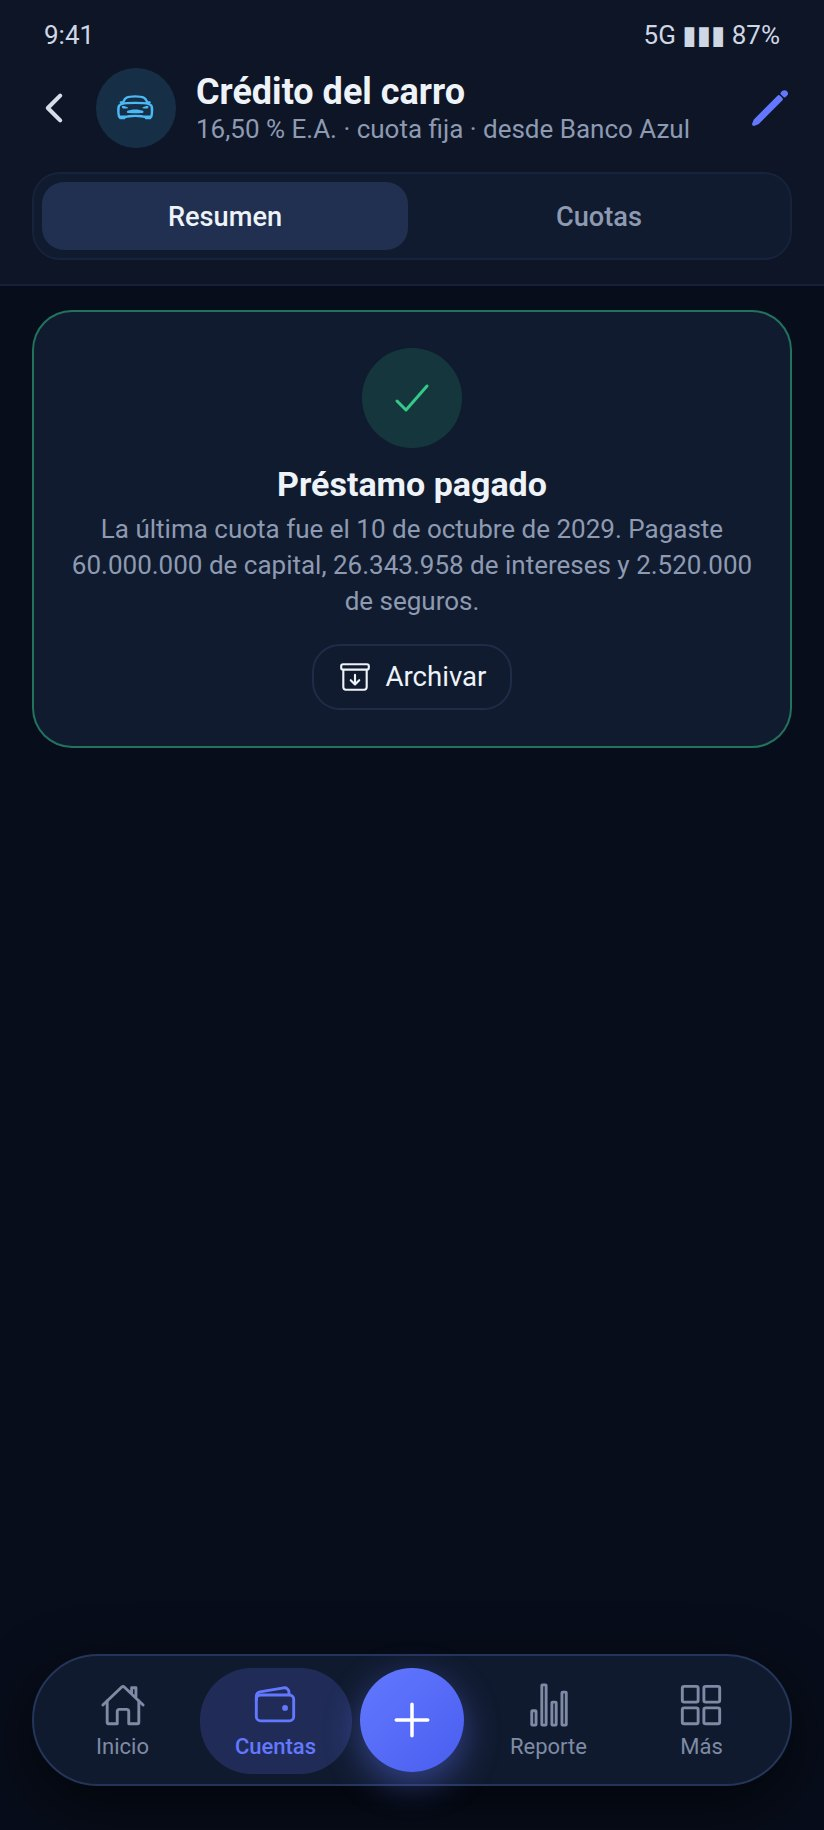
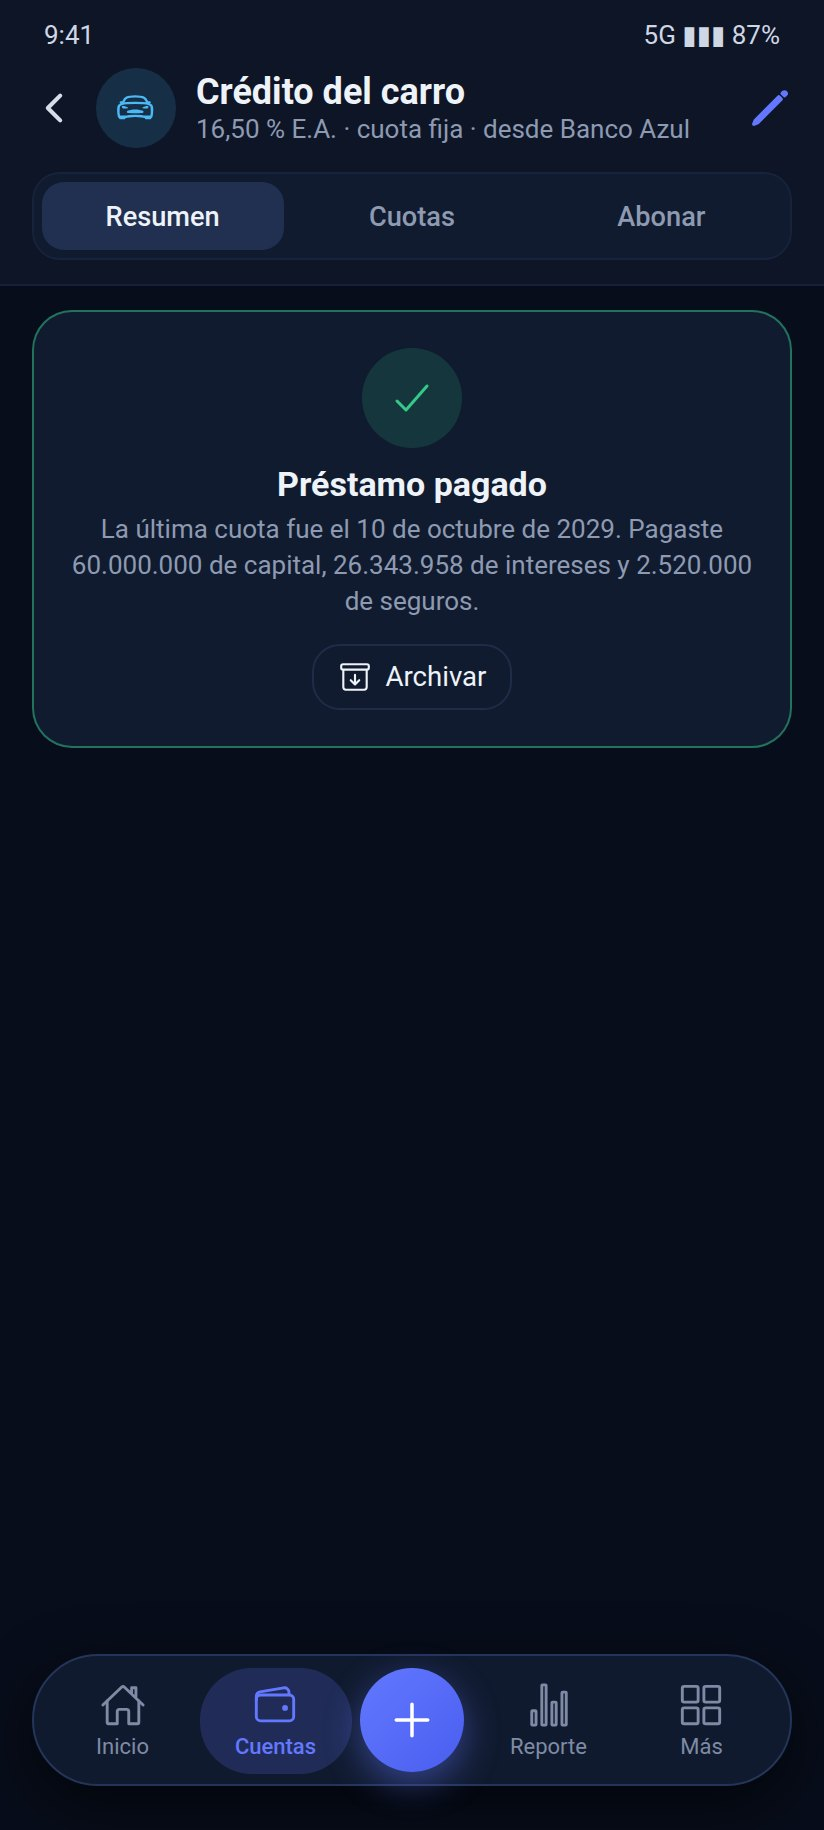
Debts part 2, v2: capital and interest apart, and paying a loan ahead
Each installment shows capital, interest, insurance and what is left on
lines of their own. Seven new screens draw paying ahead the way Colombian
law allows it (Ley 1555 de 2012, Ley 546 de 1999): once, every month or in
the primas, shorter term against lower installment with every figure
worked out, paying it all, and default interest when charged. The form
offers fixed or variable rate, the amortization system, and insurance as a
fixed figure or a share of the balance.

Claude-Session: https://claude.ai/code/session_01QyUqFix1SMdsKVBtd1Wz88

Changed region(s): [[0.1214, 0.0934, 0.5461, 0.1557], [0.6675, 0.0934, 0.8495, 0.1246]]

diff --git a/CLAUDE.md b/CLAUDE.md
@@ -3288,6 +3288,42 @@ insurance as expenses under Intereses and Seguros - each figure editable,
 the schedule worked out again from what was paid; overdue and paid-off
 states. Paying capital ahead is part 3.
 
+**v2, after Jose's review (2026-10-01)**: in Cuotas each installment shows
+capital, interest, insurance and what is left owed on lines of their own;
+and paying ahead is drawn now too (`13l`-`13r`), as he asked to research
+how loans work in Colombia and include it with exact figures. Looked up the
+same day (web; the norms to re-read before building):
+- **Ley 1555 de 2012**: any credit in pesos can be paid ahead, all or in
+  part, with no penalty; on a partial payment **the debtor chooses** a
+  shorter term or a lower installment. Not above 880 SMMLV of balance.
+  **Ley 546 de 1999** gives housing credits the same right.
+- **Superfinanciera**: the bank must apply an extra payment as the debtor
+  asks, even on another day than the installment's, and must not apply it
+  to future installments when the debtor says where it goes.
+- **Systems** approved for housing: fixed installment in pesos, constant
+  capital in pesos, and three in UVR (constant installment, constant
+  capital, cyclic decreasing). Consumer and vehicle loans are usually the
+  fixed installment. Proposed: fixed installment and constant capital in
+  pesos first; UVR later, it needs the UVR series.
+- **Rates**: fixed or variable (IBR or DTF plus points); a variable one is
+  a rate history the person updates. Usury is 1.5 times the IBC certified
+  each month; it caps both the ordinary and the default interest
+  (September 2026: 29.24% E.A.; August 29.66%).
+- **Seguro de vida deudor** is charged on the balance still owed, so it
+  falls as the loan is paid: the form offers a fixed figure or a % of the
+  balance.
+- What the app draws, all from one schedule engine: an extra payment once,
+  every month, or in the primas (June and December); for each, when the
+  loan ends, the installments left, the interest and the total still to
+  pay, and the saving - with reduce-the-term against reduce-the-installment
+  side by side; how much several amounts save; paying it all today (the
+  balance plus the interest since the last installment, approximate - the
+  bank's figure counts); default interest typed only when charged. The
+  test loan's figures were worked out by a script (5,000,000 ahead with
+  installment 24: ends May 2029, 5 installments sooner, interest 8,362,859
+  instead of 11,049,708, saving 2,896,849 with the insurance; lowering the
+  installment instead: 1,306,833, saving 1,272,397).
+
 ### The ideas, by what they would take
 
 | # | Idea | Size | Touches | Status |
@@ -3348,7 +3384,7 @@ budget family (2/16, 1, 7), then the rest.
 - [ ] Decide on the ideas from Lukas's atajos (rule 22, mockups `10a`-`10f`):
       which to build and in what order, and whether a notification of the
       app's own (`10d`) is worth reading in the background.
-- [ ] Debts part 2 (loans): approve the screens `13a`-`13k`.
+- [ ] Debts part 2 (loans): approve the screens `13a`-`13r` (v2).
 - [ ] Debts part 1 is built: put the Rappi Card's real cut-off and payment
       days (pencil on its page) and say whether the statement matches the bank's.
 - [ ] Say whether the keypad should start closed, and whether he misses the

diff --git a/docs/mockups/README.md b/docs/mockups/README.md
@@ -32,6 +32,7 @@ Every list of movements is in folding sections (by day or category), only the fi
 | `11a`–`11o` | **Proposals, not approved** (2026-09-29): debts and plans - Cuentas with a third face, Deudas (what is owed, what it costs this month, the next payments, what is owed TO the person), adding a debt (a loan, a mortgage, a card, money lent), a loan's terms (rate E.A. or M.V. with the usury ceiling, the installment worked out beside the bank's), a loan's summary, its schedule and paying capital ahead (reduce the term or the installment, side by side), the order to pay several debts, a card's cut-off and payment days and the statement they allow, paying an installment split into capital, interest and insurance, Planes (spending limits per category and savings goals, in the Reporte tab), a new limit, a new goal, and what Inicio says this week |
 | `12a`–`12i` | **Part 1 of debts, for approval** (2026-10-01): Más with "Tus finanzas", Cuentas → Deudas with one card and no loans, the card's two optional days, and its statement due, part paid, paid, overdue, without days and with nothing owed |
 | `13a`–`13k` | **Part 2 of debts, loans, for approval** (2026-10-01; invented loan: 60,000,000 at 16.5% E.A., 60 monthly installments, 23 paid, every figure worked out): Deudas with a card and a loan, "Nueva deuda", the loan's form, one begun before the app, its Resumen and Cuotas, paying an installment and paying other figures than the worked-out ones, an installment overdue, a loan paid off, Saldos with the loan |
+| `13l`–`13r` | **Paying a loan ahead, v2 for approval** (2026-10-01): capital and interest on lines of their own in Cuotas (`13f`), abonar once with the three answers side by side (`13l`), how much each amount saves (`13m`), in the primas or every month (`13n`), registering it (`13o`), the schedule after it (`13p`), paying it all today (`13q`), an installment paid with default interest (`13r`) |
 | `6a`–`6z` | Group 6 (v5): Por revisar - the account on top, the batch and its list by day, the notices on rows, shops that repeat, the check's bubble; a movement checked in the one movement form (its note with suggestions, missing its category, maybe the same); choosing several by day and by shop, and saving them; the filter-and-order sheet, a filter on; the account list with Todas first; the "···" and discarding; squaring with the bank (its (i), its question); reading a statement - whose it is, the password, the stages, what was read (a toast), one that does not square, one that cannot be read; nothing to review |
 | `7a`–`7m` | Group 7 (v4): Avisos del banco - the apps and their switches, the (i), what they said by day, choosing several apps, hiding, hidden apps, the "···" and forgetting everything, without permission and its (i), nothing yet, a search with nothing |
 | `8a`–`8q` | Group 8 (v5): Más (replacing the drawer), language and appearance, Importar y exportar with its (i)'s, restoring and its question, Google signed out and in, saving alone, bringing the copy back, replacing another device's copy, changing account; appearance with the colour of the app |
